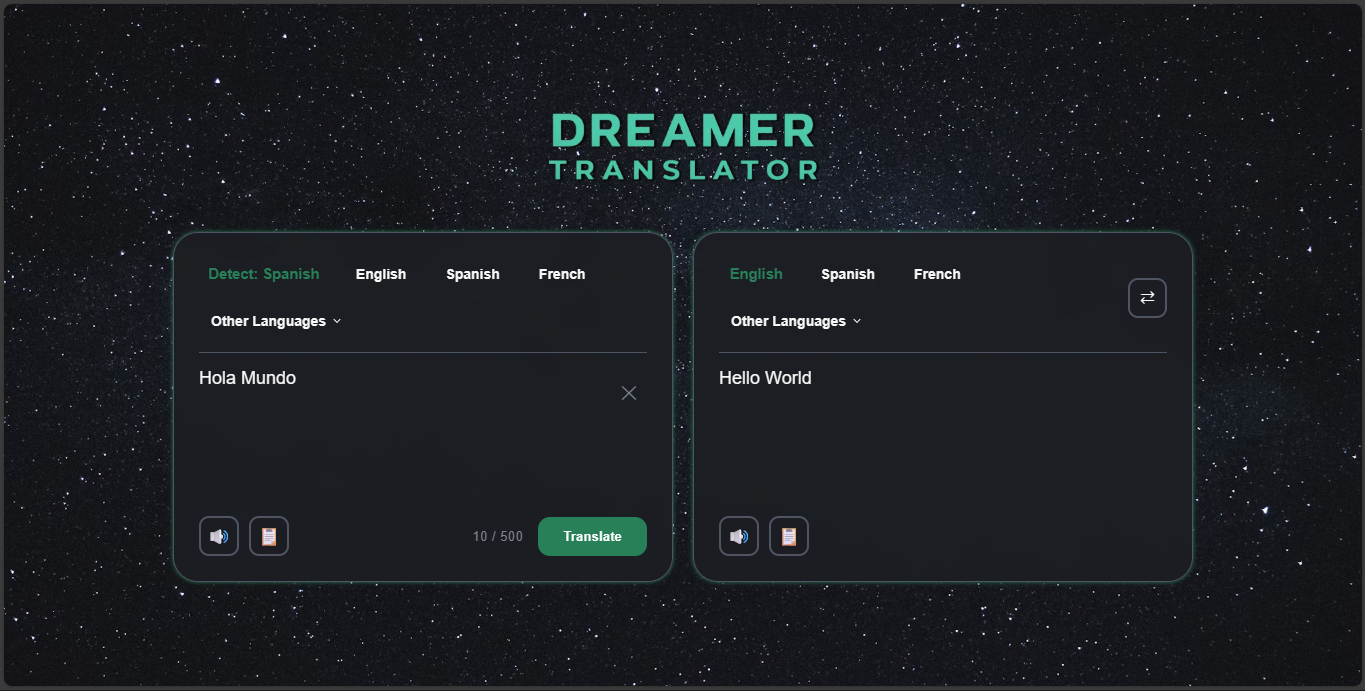
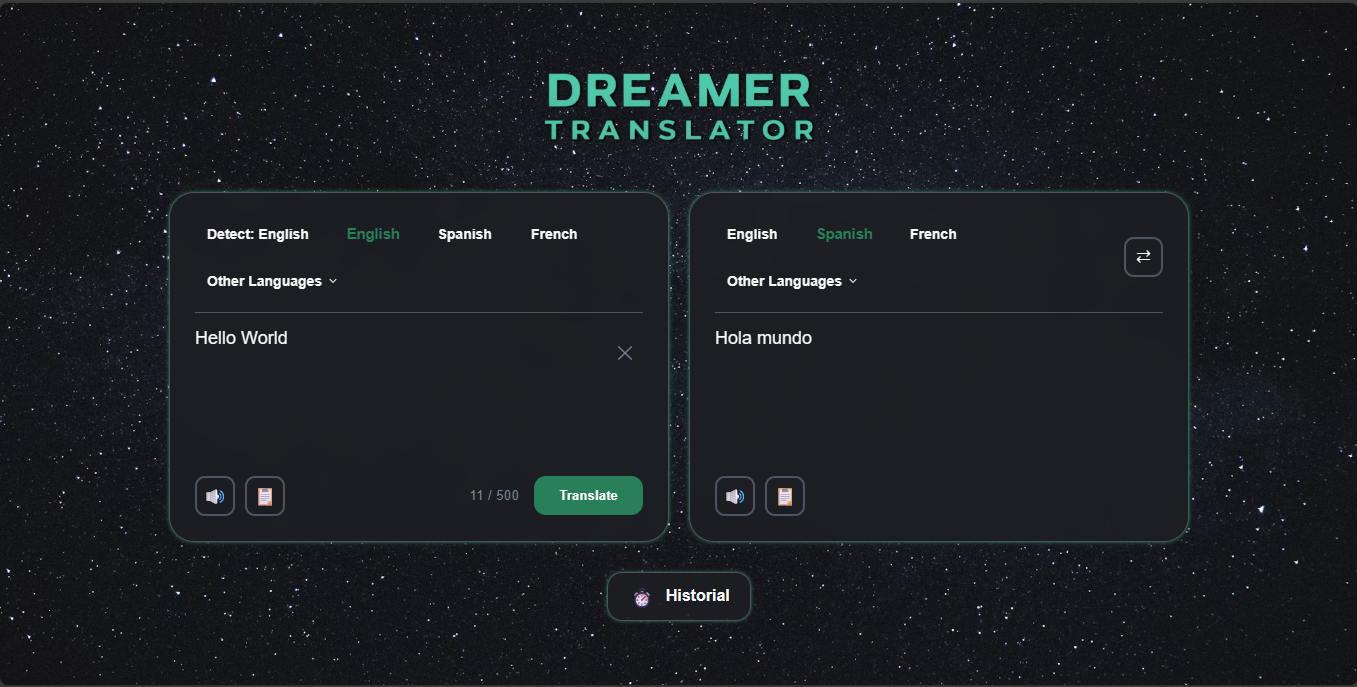
Agregando historial

diff --git a/frontend/src/App.jsx b/frontend/src/App.jsx
@@ -8,9 +8,9 @@ const idiomas = [
   { code: 'en', name: 'English' },
   { code: 'es', name: 'Spanish' },
   { code: 'fr', name: 'French' },
-  { code: 'de', name: 'German' },      // Nuevo
-  { code: 'it', name: 'Italian' },     // Nuevo
-  { code: 'pt', name: 'Portuguese' },  // Nuevo
+  { code: 'de', name: 'German' },      
+  { code: 'it', name: 'Italian' },     
+  { code: 'pt', name: 'Portuguese' },  
 ];
 
 const obtenerNombreIdioma = (code) => {
@@ -29,9 +29,38 @@ function App() {
   const [idiomaDestino, setIdiomaDestino] = useState('es');
   const [cargando, setCargando] = useState(false);
   const [idiomaDetectado, setIdiomaDetectado] = useState('un');
+  const [historial, setHistorial] = useState([]);
+  const [mostrarHistorial, setMostrarHistorial] = useState(false);
   
   // CORRECCIÓN 1: Nuevo estado para saber si estamos en modo automático
   const [autoMode, setAutoMode] = useState(true); 
+
+  const guardarTraduccion = (original, traducido, origenCode, destinoCode) => {
+    if (!original || !traducido) return;
+
+    const nuevaEntrada = {
+      id: Date.now(), // Un ID único
+      original,
+      traducido,
+      origen: obtenerNombreIdioma(origenCode),
+      destino: obtenerNombreIdioma(destinoCode),
+      origenCode: origenCode, // Códigos para re-traducir
+      destinoCode: destinoCode,
+    };
+
+    setHistorial(prevHistorial => {
+      // 1. Filtrar duplicados (si la frase y el destino son iguales)
+      const historialFiltrado = prevHistorial.filter(item => 
+        item.original !== original || item.destinoCode !== destinoCode
+      );
+      
+      // 2. Agregar la nueva entrada al inicio
+      const nuevoHistorial = [nuevaEntrada, ...historialFiltrado];
+      
+      // 3. Limitar a un máximo de 10 entradas
+      return nuevoHistorial.slice(0, 10);
+    });
+  };
 
   useEffect(() => {
     const realizarTraduccion = async () => {
@@ -52,7 +81,13 @@ function App() {
       setTextoTraducido(translatedText);
       setIdiomaDetectado(detectedLang || 'un'); 
       setCargando(false);
+
+      // Guardar en historial
+      const idiomaRealOrigen = detectedLang && detectedLang !== 'un' ? detectedLang : idiomaOrigen;
+      guardarTraduccion(textoInput, translatedText, idiomaRealOrigen, idiomaDestino);
+    
     };
+
 
     const timeoutId = setTimeout(realizarTraduccion, 500);
 
@@ -80,6 +115,19 @@ function App() {
     setIdiomaDetectado('un');// Resetea el detector a 'unknown'
     setAutoMode(true);       // (Opcional) Vuelve al modo automático
   };
+
+  // NUEVO: Función para cargar una entrada del historial
+  const cargarHistorial = (item) => {
+    // Usar la traducción como nueva entrada
+    setTextoInput(item.original);
+    
+    // Configurar los idiomas de la traducción guardada
+    setIdiomaOrigen(item.origenCode);
+    setIdiomaDestino(item.destinoCode);
+    
+    // Desactivar el modo auto si estaba activo
+    setAutoMode(false);
+  };  
 
   return (
     <div className="app-container">
@@ -230,6 +278,51 @@ function App() {
           </div>
         </div>
       </main>
+      
+      {/* NUEVO: BOTÓN DE HISTORIAL */}
+      {historial.length > 0 && (
+          <button 
+              className="btn-historial"
+              onClick={() => setMostrarHistorial(true)}
+              title="Ver Historial de Traducciones Recientes"
+          >
+             <span className="icon">⏱</span> Historial
+          </button>
+      )}
+
+      {/* NUEVO: MODAL/PANEL DEL HISTORIAL */}
+      {mostrarHistorial && (
+        <div className="historial-modal-overlay" onClick={() => setMostrarHistorial(false)}>
+          <div className="historial-panel" onClick={e => e.stopPropagation()}>
+            <div className="historial-header">
+              <h2>Recent Translations</h2>
+              <button 
+                  className="btn-icon btn-close" 
+                  onClick={() => setMostrarHistorial(false)}
+              >
+                  ✕
+              </button>
+            </div>
+            
+            <div className="historial-list">
+              {historial.map((item) => (
+                <div 
+                  key={item.id} 
+                  className="historial-item"
+                  onClick={() => cargarHistorial(item)} 
+                >
+                  <p className="historial-lang">
+                    {item.origen} → {item.destino}
+                  </p>
+                  <p className="historial-original">{item.original}</p>
+                </div>
+              ))}
+              <p className="historial-tip">Click on an item to load it into the translator.</p>
+            </div>
+          </div>
+        </div>
+      )}       
+
     </div>
   );
 }

diff --git a/frontend/src/App.css b/frontend/src/App.css
@@ -344,6 +344,199 @@ header {
   letter-spacing: 0.5px;
 }
 
+/* --- HISTORIAL DE TRADUCCIONES --- */
+
+.historial-container {
+    width: 100%;
+    max-width: 1100px;
+    margin-top: 50px;
+    padding: 20px;
+    animation: fadeInUp 0.8s ease-out; /* Entrada suave */
+}
+
+.historial-title {
+    color: var(--primary-color);
+    font-size: 24px;
+    margin-bottom: 20px;
+    border-bottom: 2px solid var(--border-color);
+    padding-bottom: 10px;
+}
+
+.historial-grid {
+    display: flex;
+    gap: 20px;
+    overflow-x: auto; /* Permite scroll horizontal para ver todas las entradas */
+    padding-bottom: 10px;
+    
+    /* Ocultar la barra de desplazamiento */
+    -ms-overflow-style: none;
+    scrollbar-width: none;
+}
+.historial-grid::-webkit-scrollbar {
+    display: none;
+}
+
+.historial-item {
+    /* Basado en la clase .card, pero ajustado para ser más pequeño */
+    flex-shrink: 0; /* No se encoje */
+    width: 300px; /* Ancho fijo para cada tarjeta de historial */
+    min-height: 150px;
+    padding: 15px;
+    cursor: pointer;
+    transition: all 0.2s ease;
+    
+    /* Remover la sombra de la card por defecto al hacer hover para la animación */
+    box-shadow: 0 0 4px var(--primary-color);
+}
+
+.historial-item:hover {
+    transform: translateY(-5px);
+    box-shadow: 0 10px 20px rgba(0, 0, 0, 0.3), 0 0 8px var(--primary-color);
+}
+
+.historial-lang {
+    font-size: 14px;
+    color: var(--primary-color);
+    margin-bottom: 5px;
+}
+
+.historial-original {
+    font-size: 16px;
+    color: var(--text-color);
+    overflow: hidden;
+    text-overflow: ellipsis;
+    display: -webkit-box;
+    -webkit-box-orient: vertical;
+    margin-bottom: 5px;
+}
+
+.historial-traducido {
+    font-size: 16px;
+    color: var(--text-muted);
+    font-style: italic;
+    overflow: hidden;
+    text-overflow: ellipsis;
+    display: -webkit-box;
+    -webkit-box-orient: vertical;
+}
+
+/* --- BOTÓN DE HISTORIAL (Al estilo Google Translate) --- */
+
+.btn-historial {
+    background: var(--card-bg);
+    border: 1px solid var(--border-color);
+    box-shadow: 0 0 4px var(--primary-color);
+    border-radius: 15px;
+    padding: 10px 20px;
+    margin-top: 30px;
+    color: var(--text-color);
+    font-size: 16px;
+    font-weight: bold;
+    cursor: pointer;
+    display: flex;
+    align-items: center;
+    gap: 10px;
+    transition: all 0.2s ease;
+}
+
+.btn-historial:hover {
+    transform: translateY(-2px);
+    box-shadow: 0 8px 16px rgba(0, 0, 0, 0.3), 0 0 8px var(--primary-color);
+}  
+
+.btn-historial .icon {
+    font-size: 20px;
+}
+
+
+/* --- MODAL/PANEL DEL HISTORIAL --- */
+
+.historial-modal-overlay {
+    position: fixed;
+    top: 0;
+    left: 0;
+    width: 100%;
+    height: 100%;
+    background-color: rgba(0, 0, 0, 0.7); /* Fondo oscuro transparente */
+    z-index: 1000;
+    display: flex;
+    justify-content: center;
+    align-items: flex-start; /* Colocarlo arriba, no en el centro */
+    padding-top: 5vh;
+}
+
+.historial-panel {
+    background-color: var(--card-bg);
+    border: 1px solid var(--primary-color);
+    border-radius: 15px;
+    width: 90%;
+    max-width: 600px;
+    max-height: 80vh; /* Altura máxima para evitar que ocupe toda la pantalla */
+    display: flex;
+    flex-direction: column;
+    animation: fadeInUp 0.4s ease-out;
+}
+
+.historial-header {
+    display: flex;
+    justify-content: space-between;
+    align-items: center;
+    padding: 15px 20px;
+    border-bottom: 1px solid var(--border-color);
+}
+
+.historial-header h2 {
+    color: var(--text-color);
+    font-size: 20px;
+}
+
+.historial-list {
+    overflow-y: auto; /* Permite scroll solo en la lista */
+    padding: 20px;
+}
+
+.historial-item {
+    padding: 10px 0;
+    border-bottom: 1px solid rgba(121, 130, 144, 0.2); /* Línea divisoria tenue */
+    cursor: pointer;
+    transition: background-color 0.2s;
+}
+
+.historial-item:hover {
+    background-color: rgba(255, 255, 255, 0.05);
+}
+
+.historial-lang {
+    font-size: 15px;
+    color: var(--primary-color);
+    font-weight: bold;
+    padding-left: 10px;
+    
+}
+
+.historial-original {
+    font-size: 13px;
+    color: var(--text-color);
+    overflow: hidden;
+    text-overflow: ellipsis;
+    white-space: nowrap; /* Mantiene en una sola línea */
+    padding-left: 3px;
+}
+
+.historial-tip {
+    font-size: 12px;
+    color: var(--text-muted);
+    text-align: center;
+    margin-top: 20px;
+}
+
+/* RESPONSIVE: En móvil, las tarjetas de historial se hacen más angostas */
+@media (max-width: 480px) {
+  .historial-item {
+    width: 250px; 
+  }
+}
+
 /* --- MEDIA QUERIES MEJORADOS --- */
 
 @media (max-width: 900px) {
